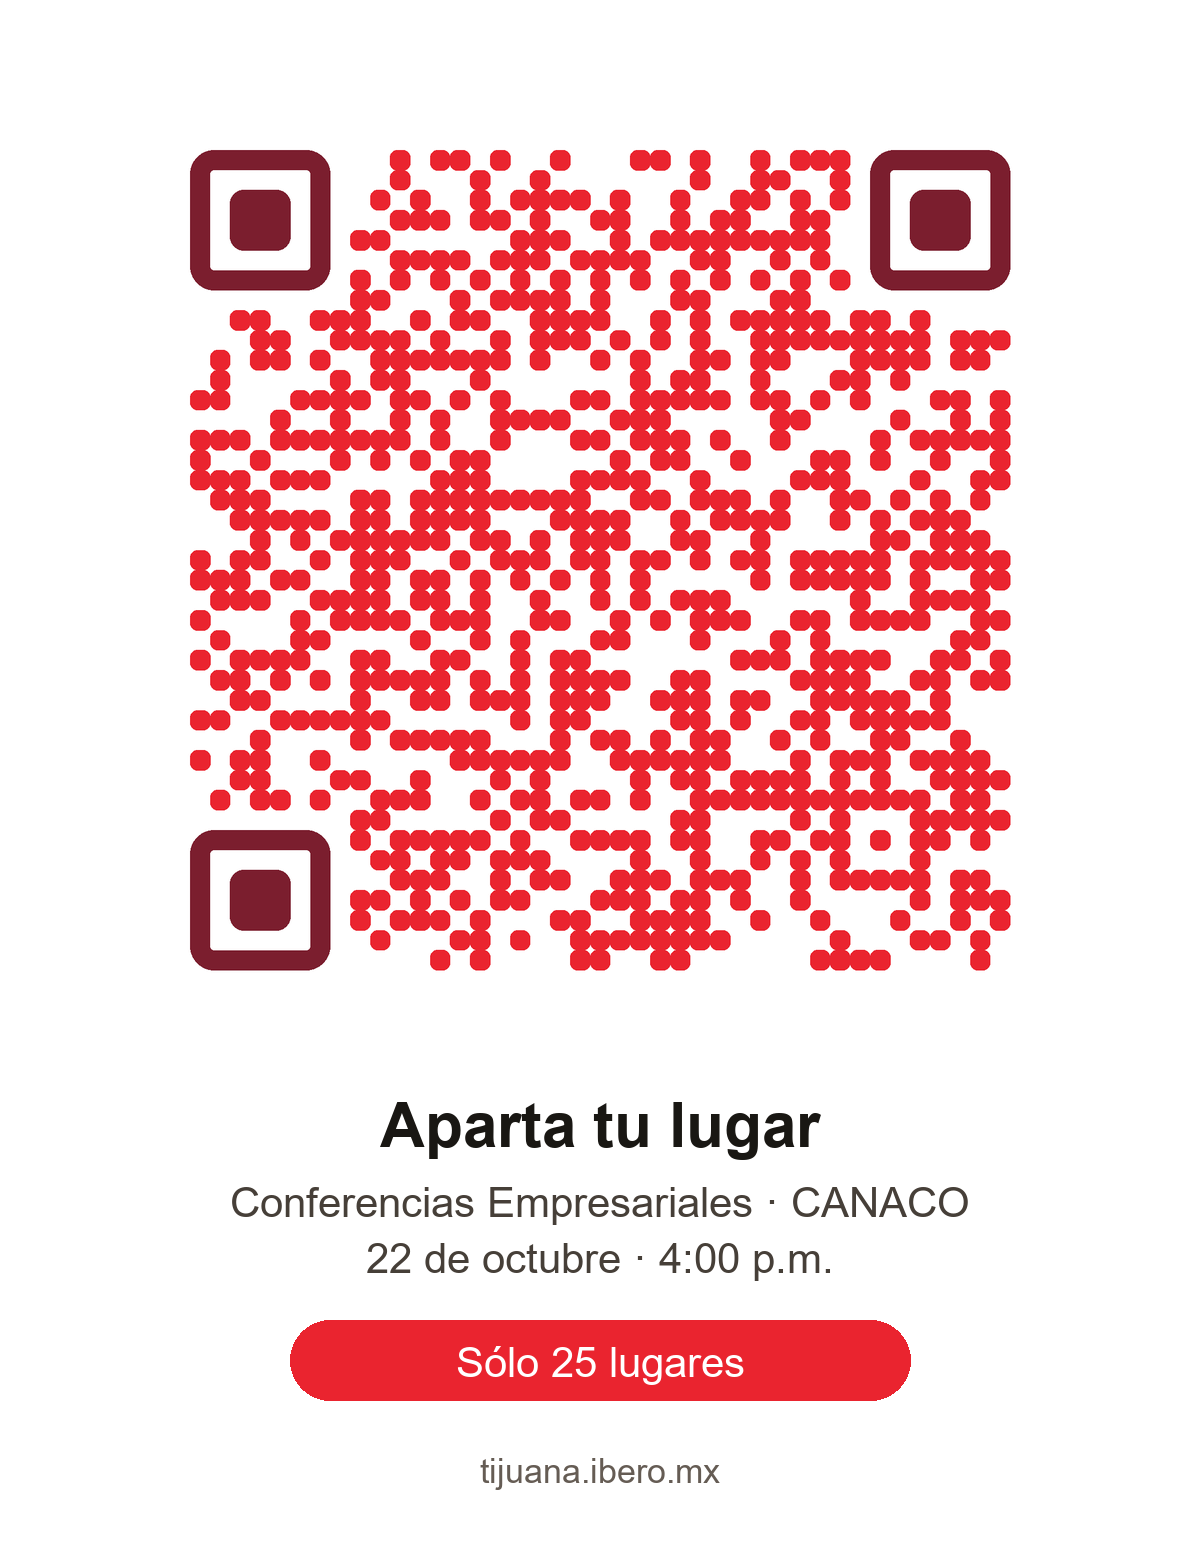
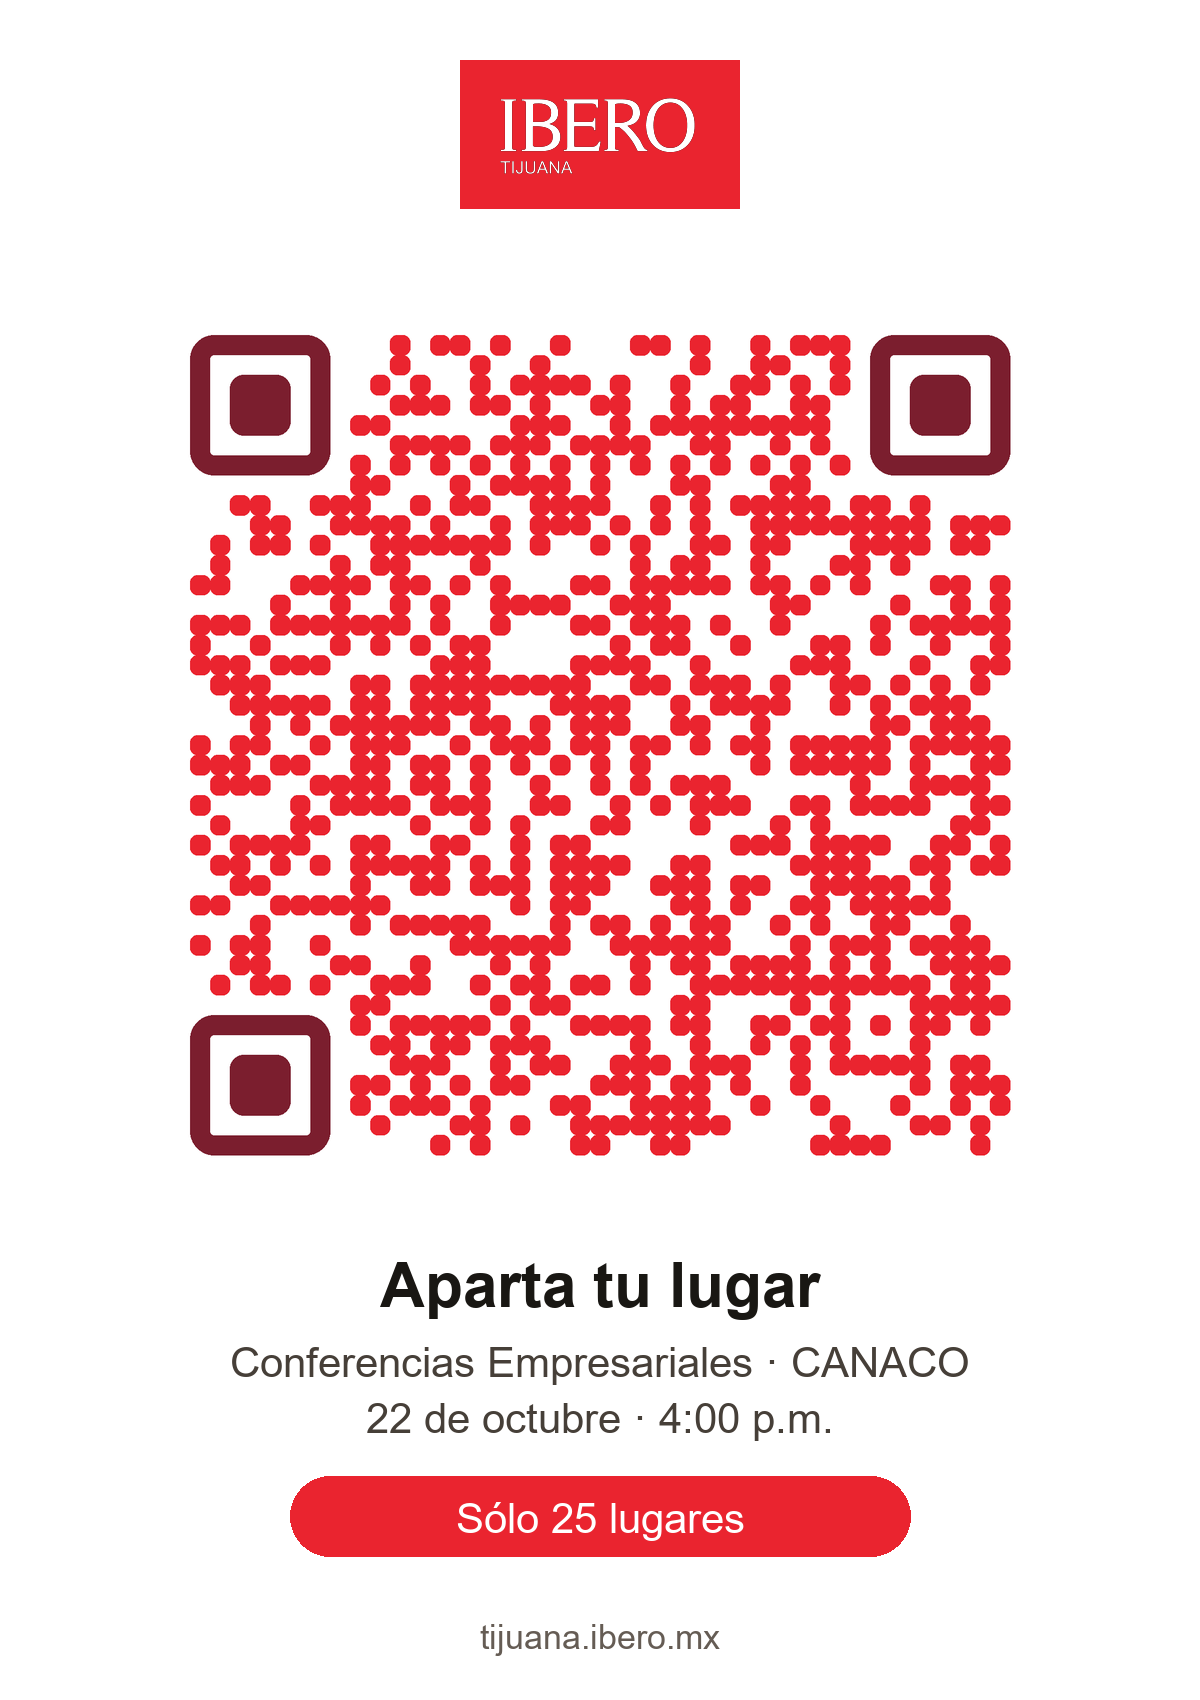
El logotipo oficial, no una imitacion en CSS
Lo habia dibujado con una caja roja y texto: parecido de lejos,
pero no es el logotipo. Ahora sale del PDF vectorial de
00_RECURSOS/Logos/IBEROTijuana_LOGO.pdf, pagina 1, que es la
version en blanco, dentro de su caja roja. Ese es el membrete
oficial, el mismo del formato de autorizacion de viaje.

Va entero: no se recorta ni se reacomoda.

En la web queda como SVG, asi que escala e imprime limpio. En la
tarjeta del QR se rasteriza del mismo PDF al tamano que hace falta.

Changed region(s): [[0.1542, 0.0308, 0.8633, 0.7077], [0.185, 0.7077, 0.8017, 0.9846]]

diff --git a/estilos.css b/estilos.css
@@ -27,10 +27,12 @@ body{
 
 /* ── Cabecera ─────────────────────────────────────────── */
 .marcas{display:flex;align-items:center;gap:14px;margin-bottom:26px}
-.marcas .ibero{background:var(--rojo);color:#fff;padding:8px 13px;border-radius:5px;
-  font-family:var(--titulos);font-weight:700;font-size:21px;line-height:1;letter-spacing:.01em}
-.marcas .ibero small{display:block;font-family:var(--texto);font-weight:400;
-  font-size:9.5px;letter-spacing:.22em;margin-top:2px}
+/* El membrete oficial: el logotipo EN BLANCO dentro de su caja
+   roja, tal como viene en los formatos de la oficina. El archivo
+   es el vectorial de 00_RECURSOS/Logos, no un dibujo con CSS: el
+   logotipo no se imita ni se recorta. */
+.marcas .ibero{background:var(--rojo);border-radius:5px;padding:11px 13px;flex:none}
+.marcas .ibero img{display:block;width:104px;height:auto}
 .marcas .invita{font-size:13px;color:var(--tinta-tenue);line-height:1.3}
 .marcas .invita b{display:block;color:var(--tinta);font-size:14.5px;font-weight:600}
 

diff --git a/index.html b/index.html
@@ -14,7 +14,7 @@
 <div class="hoja" id="hoja">
 
   <div class="marcas">
-    <div class="ibero">IBERO<small>TIJUANA</small></div>
+    <div class="ibero"><img src="logo-ibero.svg" alt="IBERO Tijuana" width="300" height="128"></div>
     <div class="invita"><b id="invita">CANACO Tijuana</b>te invita</div>
   </div>
 

diff --git a/qr.py b/qr.py
@@ -72,12 +72,38 @@ def sobre_blanco(im):
     return fondo
 
 
+OFICIAL = (pathlib.Path(r"C:\Users\leonardo.gonzalez\Documents\IBERO - DG")
+           / "2026" / "00_RECURSOS" / "Logos" / "IBEROTijuana_LOGO.pdf")
+
+
+def membrete(ancho):
+    """El logotipo OFICIAL en blanco dentro de su caja roja.
+
+    Sale del PDF vectorial de 00_RECURSOS, rasterizado al tamaño que
+    hace falta: no es un dibujo parecido, es el archivo bueno. Va
+    entero, sin recortes ni reacomodos.
+    """
+    import fitz
+    pg = fitz.open(OFICIAL)[0]                  # página 1 = versión blanca
+    esc = ancho / pg.rect.width
+    pm = pg.get_pixmap(matrix=fitz.Matrix(esc, esc), alpha=True)
+    logo = Image.frombytes("RGBA", (pm.width, pm.height), pm.samples)
+    pad = int(ancho * 0.11)
+    caja = Image.new("RGB", (ancho + pad * 2, logo.height + pad * 2), ROJO)
+    caja.paste(logo, (pad, pad), logo)
+    return caja
+
+
 def tarjeta(im):
-    """El QR con el texto debajo, para mandar por WhatsApp o redes."""
-    an, al = 1200, 1560
+    """El QR con el membrete y el texto, para WhatsApp o redes."""
+    an, al = 1200, 1700
     t = Image.new("RGB", (an, al), BLANCO)
+
+    logo = membrete(230)
+    t.paste(logo, ((an - logo.width) // 2, 60))
+
     q = sobre_blanco(im).resize((980, 980), Image.LANCZOS)
-    t.paste(q, ((an - 980) // 2, 70))
+    t.paste(q, ((an - 980) // 2, 60 + logo.height + 46))
 
     d = ImageDraw.Draw(t)
     try:
@@ -91,12 +117,12 @@ def tarjeta(im):
         w = d.textbbox((0, 0), txt, font=fuente)[2]
         d.text(((an - w) / 2, y), txt, font=fuente, fill=color)
 
-    centrado("Aparta tu lugar", 1090, gorda, (25, 23, 19))
-    centrado("Conferencias Empresariales · CANACO", 1178, normal, (70, 63, 56))
-    centrado("22 de octubre · 4:00 p.m.", 1234, normal, (70, 63, 56))
-    d.rounded_rectangle([(an - 620) / 2, 1320, (an + 620) / 2, 1400], radius=40, fill=ROJO)
-    centrado("Sólo 25 lugares", 1338, normal, BLANCO)
-    centrado("tijuana.ibero.mx", 1452, chica, (101, 92, 84))
+    centrado("Aparta tu lugar", 1250, gorda, (25, 23, 19))
+    centrado("Conferencias Empresariales · CANACO", 1338, normal, (70, 63, 56))
+    centrado("22 de octubre · 4:00 p.m.", 1394, normal, (70, 63, 56))
+    d.rounded_rectangle([(an - 620) / 2, 1476, (an + 620) / 2, 1556], radius=40, fill=ROJO)
+    centrado("Sólo 25 lugares", 1494, normal, BLANCO)
+    centrado("tijuana.ibero.mx", 1618, chica, (101, 92, 84))
     return t
 
 

diff --git a/logo.py b/logo.py
@@ -1,0 +1,46 @@
+# -*- coding: utf-8 -*-
+"""Saca el logotipo oficial de IBERO Tijuana en vectorial, para la web.
+
+Del PDF oficial 2026/00_RECURSOS/Logos/IBEROTijuana_LOGO.pdf:
+  página 1 → la versión en BLANCO, que es la que va sobre el rojo
+  página 2 → la versión en negro
+
+Se usa la de blanco dentro de una caja roja #EA242F: ése es el
+membrete oficial, el mismo que trae el formato de autorización de
+viaje que manda la oficina. El logotipo NO se recorta ni se
+reacomoda, va entero dentro de su caja.
+
+Queda logo-ibero.svg, vectorial: imprime y escala sin pixelearse,
+que era justo el problema de dibujarlo con CSS.
+"""
+import pathlib
+import re
+
+import fitz
+
+AQUI = pathlib.Path(__file__).resolve().parent
+OFICIAL = (pathlib.Path(r"C:\Users\leonardo.gonzalez\Documents\IBERO - DG")
+           / "2026" / "00_RECURSOS" / "Logos" / "IBEROTijuana_LOGO.pdf")
+
+
+def main():
+    d = fitz.open(OFICIAL)
+    pg = d[0]                                   # la versión en blanco
+    svg = pg.get_svg_image()
+
+    # Fuera el ancho y alto fijos: que mande la caja del HTML. El
+    # viewBox se queda, que es lo que guarda la proporción.
+    svg = re.sub(r'(<svg[^>]*?)\swidth="[^"]*"', r"\1", svg, count=1)
+    svg = re.sub(r'(<svg[^>]*?)\sheight="[^"]*"', r"\1", svg, count=1)
+
+    destino = AQUI / "logo-ibero.svg"
+    destino.write_text(svg, encoding="utf-8")
+
+    print("  %s" % destino.name)
+    print("  caja %.0f × %.0f · proporción %.3f · %d trazos · %d KB"
+          % (pg.rect.width, pg.rect.height, pg.rect.width / pg.rect.height,
+             svg.count("<path"), len(svg) // 1024))
+
+
+if __name__ == "__main__":
+    main()
